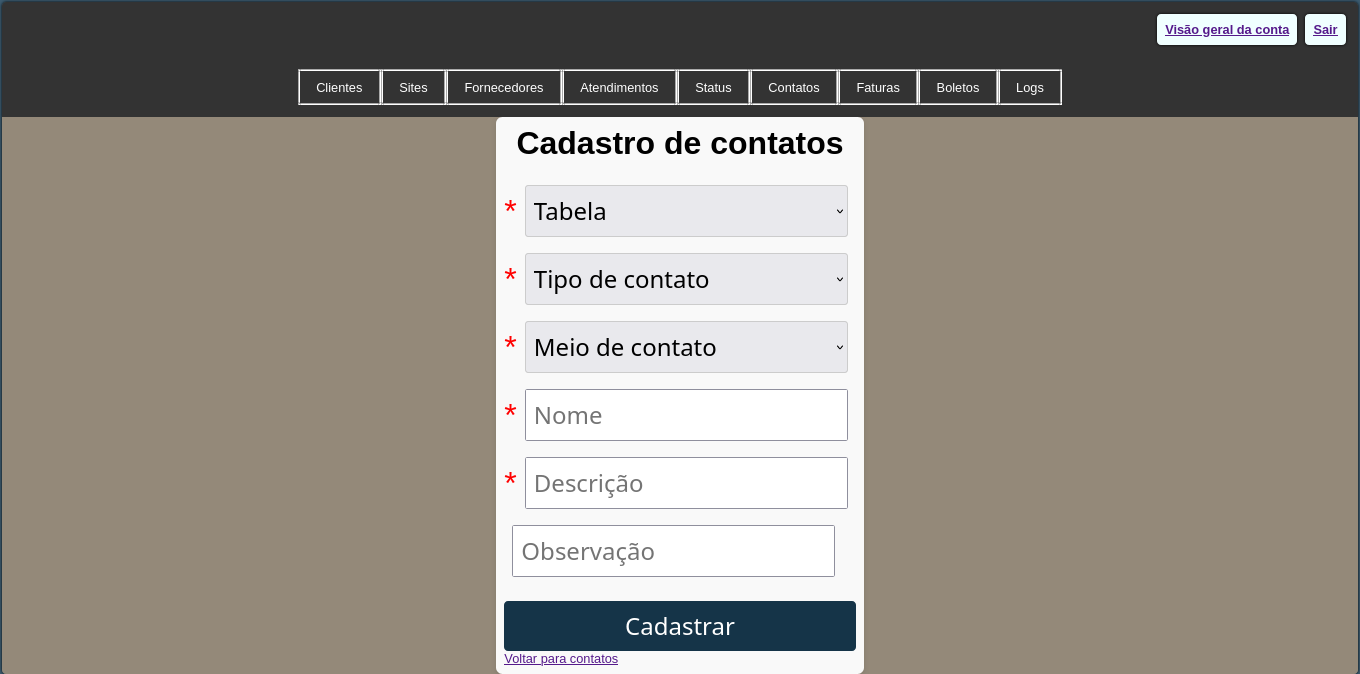
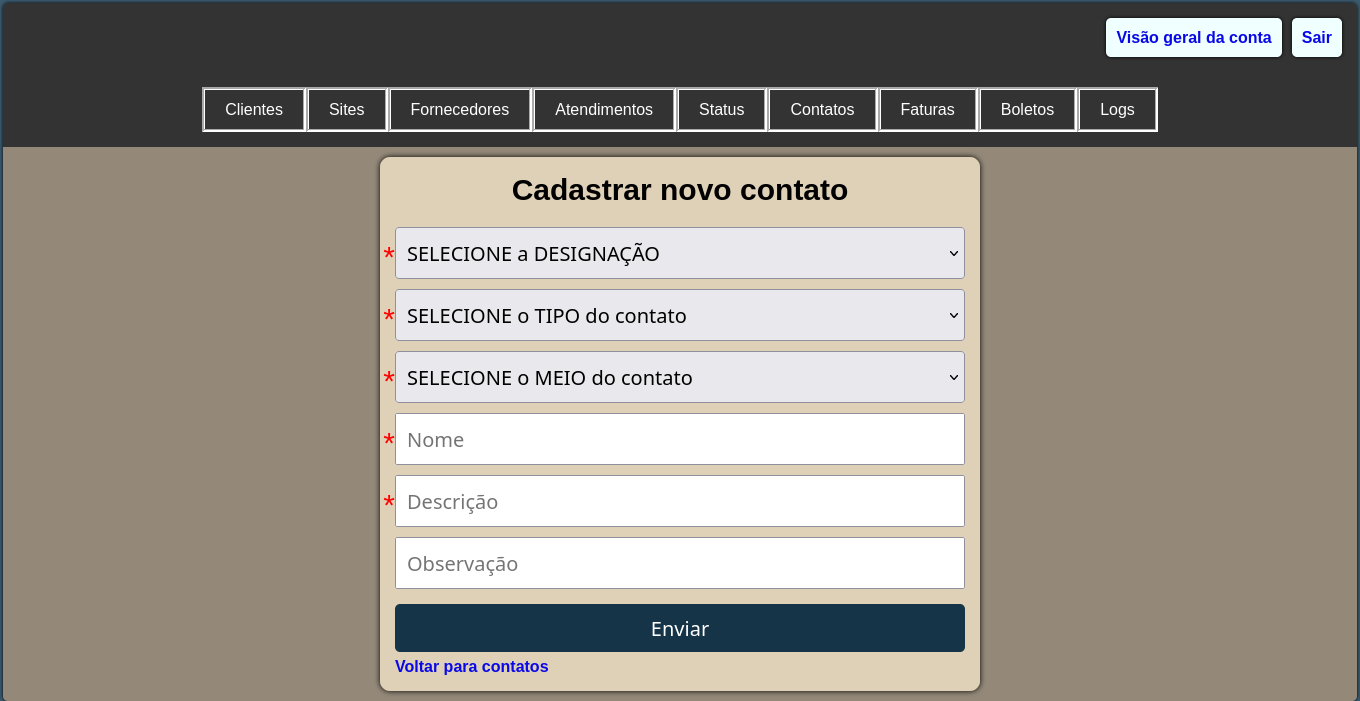
[stilo] adicionado responsividade para formulários de login, cadastros e edições & adicionado links para voltar para lista de entidades do dominio atual para telas de new e edit

Changed region(s): [[0.0, 0.0935, 1.0, 1.0], [0.8029, 0.0, 1.0, 0.0935], [0.9882, 0.997, 1.0, 1.0]]

diff --git a/app/assets/stylesheets/custom_styles.css b/app/assets/stylesheets/custom_styles.css
@@ -11,7 +11,8 @@ body {
 .cadastrar-entrar-link,
 .header-settings-button, .header-logout-button,
 .usuario-edit-button, .default-delete-button,
-.detalhes-link, .editar-link, .apagar-link {
+.detalhes-link, .editar-link, .apagar-link,
+.voltar-link {
   text-decoration: none;
   font-weight: bolder;
 }
@@ -23,6 +24,9 @@ body {
 }
 .apagar-link, .default-delete-button {
   color: crimson;
+}
+.voltar-link {
+  color: black;
 }
 
 .header-container{
@@ -144,71 +148,89 @@ body {
     margin: 5px;
   }
 
-  .required::after {
-    color: red;
-    content: "*";
-    font-size: 40px;
-  }
-  .caixa-de-texto{
-    display: flex;
-    align-items: center;
-  }
-
-  .container-cadastrar-usuarios, .container-entrar-usuarios {
+  .container-cadastrar-usuarios, .container-entrar-usuarios, 
+  .container-cadastros {
     margin: 10px;
     display: flex;
     justify-content: center;
-    flex-direction: row;
-    flex-wrap: wrap;
-    border-radius: inherit;
     background-color: transparent;
+    width: 100%;
+    max-width: 600px;
+    min-width: 300px;
   }
-    .formulario-cadastrar-usuarios, .formulario-entrar-usuarios, .container-show{
-      margin: 10px;
+    .formulario-cadastrar-usuarios, .formulario-entrar-usuarios, .container-show, 
+    .formulario-cadastros {
+      display: flex;
+      justify-content: center;
+      flex-direction: column;
+      padding: 15px;
       border-radius: 10px;
-      width: auto;
+      width: 100%;
       background-color: #DFD0B8;
       box-shadow: 0 0 5px rgba(0, 0, 0, 10);
     }
-    .titulo-formulario-cadastros, .titulo-formulario-login{
-      text-align: center;
-      font-size: 40px;
-      font-weight: 900;
-      padding-bottom: 20px;
-    }
-      .signup-form-textboxes, .login-form-textboxes{
+      .titulo-formulario-cadastros, .titulo-formulario-login{
+        text-align: center;
+        font-size: 30px;
+        font-weight: 900;
+        padding-bottom: 20px;
+      }
+      .signup-form-textboxes, .login-form-textboxes,
+      .textboxes-grid, .textboxes-cadastros {
         display: grid;
-        width: 500px;
-        height: auto;
+        grid-gap: 10px;
+        justify-items: center;
       }
-      .signup-form-textboxes label, .login-form-textboxes label {
-        font-size: 40px;
-        margin: 10px;
-      }
-      .signup-form-textboxes, input[type="text"], input[type="password"],
-      .login-form-textboxes, input[type="text"], input[type="password"], 
-      .custom-select-tag {
-        padding: 10px;
-        margin: 10px;
-        font-size: 30px;
-      }
-      #form-submit-button, #high-privileges-form-submit-button {
-        display: inline-block;
-        padding: 10px 20px;
-        margin-top: 20px;
-        color: white;
-        background-color: #153448;
+      .formulario-cadastrar-colecao {
+        background-color: rgb(192, 143, 255);
+        padding: 20px;
         border-radius: 5px;
-        border: 0;
-        cursor: pointer;
-        font-size: 30px;
       }
+        .caixa-de-texto {
+          display: flex;
+          justify-content: center;
+          width: 100%;
+        }
+          .custom-select-tag {
+            /* width: 100%; */
+          }
+          .required::after {
+            position: absolute;
+            color: red;
+            content: "*";
+            font-size: 30px;
+            transform: translate(-100%, 35%);
+          }
+          .signup-form-textboxes, input[type="text"], input[type="password"],
+          .login-form-textboxes, input[type="text"], input[type="password"], 
+          .custom-select-tag {
+            width: 100%;
+            padding: 10px;
+            font-size: 20px;
+            box-sizing: border-box;
+          }
+          
+        #form-submit-button, #high-privileges-form-submit-button {
+          padding: 10px 20px;
+          margin: 5px;
+          color: white;
+          background-color: #153448;
+          border-radius: 5px;
+          border: 0;
+          cursor: pointer;
+          font-size: 20px;
+          text-wrap: wrap;
+          justify-content: center;
+          width: 100%;
+        }          
+        #form-submit-button:hover {
+          background-color: #0056b3;
+        }
         #high-privileges-form-submit-button{
           background-color: #ff4646;
+          width: 100%;
         }
-      #form-submit-button:hover {
-        background-color: #0056b3;
-      }
+
       .container-cadastrar-entrar-link{
         padding: 10px;
         display: flex;
@@ -220,6 +242,7 @@ body {
           margin-left: 20px;
           font-weight: bold;
         }
+      
   .container-show{
     display: flex;
     flex-direction: column;
@@ -246,39 +269,13 @@ body {
           border-radius: 5px;
           background-color: #ff9c9c;
         }
-
-  .container-cadastros {
-    max-width: 600px;
-    margin: 0 auto;
-    padding: 10px;
-    background-color: #f9f9f9;
-    border-radius: 8px;
-    box-shadow: 0 2px 4px rgba(0, 0, 0, 0.1);
-  }
-    .formulario-cadastros {
-      width: auto;
-    }
-      .textboxes-grid {
-        display: grid;
-        grid-gap: 0px;
-      }
-      .custom-select-tag {
-        width: 100%;
-        padding: 10px;
-        border: 1px solid #ccc;
-        border-radius: 4px;
-      }
+                  
       .text_field {
         width: 100%;
         padding: 10px;
         border: 1px solid #ccc;
         border-radius: 4px;
-      } 
-
-    .formulario-cadastrar-colecao{
-      display: flex;
-      justify-content: end;
-    }
+      }
 
   .container-list-show{
     display: flex;

diff --git a/app/controllers/sites_controller.rb b/app/controllers/sites_controller.rb
@@ -16,12 +16,6 @@ class SitesController < ApplicationController
     @site = Site.new
   end
 
-  def show
-  rescue StandardError => e
-    flash[:error] = "Site não encontrado: '#{e.message}'"
-    render 'layouts/not_found'
-  end
-
   def create
     @site = Site.new(site_params)
     if @site.save
